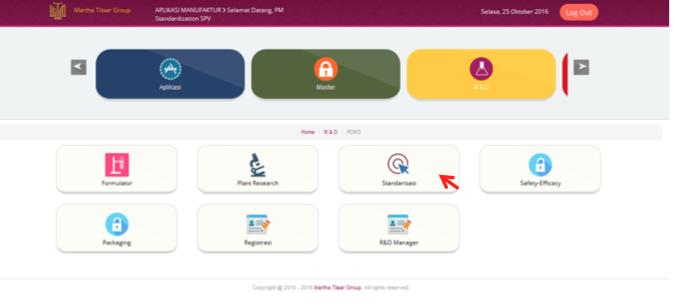
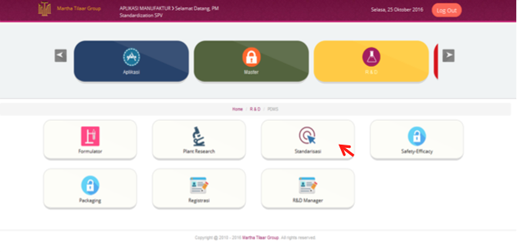
update web PDMS

diff --git a/src/components/Projects.js b/src/components/Projects.js
@@ -29,6 +29,13 @@ import webLuxspace4 from "../assets/img/web-luxspace4.jpg";
 import webLuxspace5 from "../assets/img/web-luxspace5.jpg";
 import webLuxspace6 from "../assets/img/web-luxspace6.jpg";
 
+import webPDMS1 from "../assets/img/web-PDMS1.png";
+import webPDMS2 from "../assets/img/web-PDMS2.png";
+import webPDMS3 from "../assets/img/web-PDMS3.png";
+import webPDMS4 from "../assets/img/web-PDMS4.png";
+import webPDMS5 from "../assets/img/web-PDMS5.png";
+import webPDMS6 from "../assets/img/web-PDMS6.png";
+
 import ProjectCard from "./ProjectCard";
 import "animate.css";
 import TrackVisibility from "react-on-screen";
@@ -81,6 +88,15 @@ export default function Projects() {
   ];
 
   const projectsWeb = [
+    {
+      title: "PDMS",
+      imgUrl: webPDMS1,
+      tech: "HTML5, CSS3, jQuery, Bootstrap, PHP Framework",
+      description: "Web PDMS (Product Development Management System)",
+      imgDetails: {
+        names: [webPDMS1, webPDMS2, webPDMS3, webPDMS4, webPDMS5, webPDMS6],
+      },
+    },
     {
       title: "iCation",
       imgUrl: uiuxiCation1,
